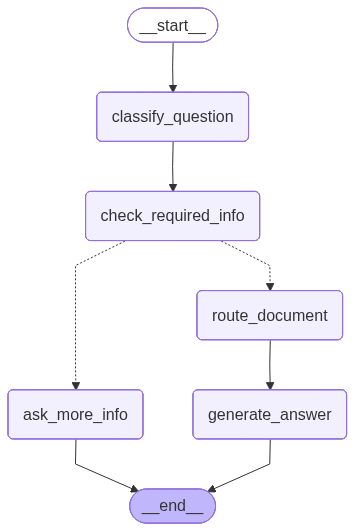
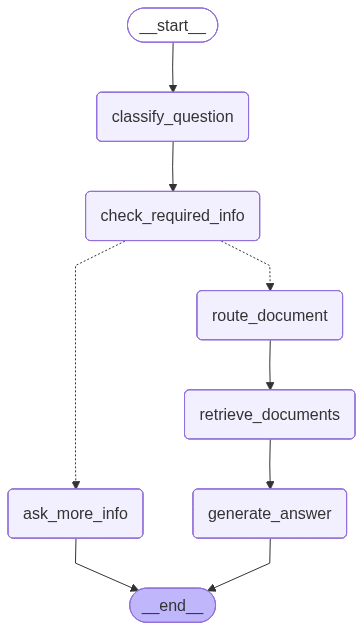
0512_working

Changed region(s): [[0.0, 0.0, 0.9915, 0.9944], [0.4958, 0.6629, 0.5268, 0.693]]

diff --git a/app/nodes/answer_node.py b/app/nodes/answer_node.py
@@ -1,13 +1,22 @@
+from dotenv import load_dotenv
+from langchain_openai import ChatOpenAI
+
+
 def generate_answer(state: dict) -> dict:
     """
-    현재까지 정리된 정보를 바탕으로 임시 답변을 생성하는 노드입니다.
-    아직 실제 RAG 검색은 연결하지 않았습니다.
+    RAG 검색 결과를 LLM에게 전달해
+    사용자에게 자연스러운 답변을 생성하는 노드입니다.
     """
 
+    load_dotenv()
+
+    question = state["question"]
     question_type = state["question_type"]
     missing_info = state["missing_info"]
     need_more_info = state["need_more_info"]
-    selected_docs = state["selected_docs"]
+    selected_docs = state.get("selected_docs", [])
+    retrieved_context = state.get("retrieved_context", "")
+    retrieved_sources = state.get("retrieved_sources", [])
 
     if question_type == "general":
         answer = (
@@ -15,20 +24,74 @@ def generate_answer(state: dict) -> dict:
             "청년월세지원 또는 전세사기 예방과 관련된 질문을 입력해주세요."
         )
 
-    elif need_more_info:
+        return {
+            "answer": answer
+        }
+
+    if need_more_info:
         answer = (
             "현재 질문만으로는 정확한 안내가 어렵습니다.\n"
-            f"추가로 확인이 필요한 정보: {', '.join(missing_info)}\n"
-            f"참고 예정 문서: {', '.join(selected_docs)}"
+            f"추가로 확인이 필요한 정보: {', '.join(missing_info)}"
         )
 
-    else:
+        return {
+            "answer": answer
+        }
+
+    if not retrieved_context:
         answer = (
             f"질문 유형: {question_type}\n"
             f"선택된 문서: {', '.join(selected_docs)}\n"
-            "해당 문서를 기반으로 답변을 생성할 수 있습니다."
+            "선택된 문서에서 관련 내용을 찾지 못했습니다."
         )
 
+        return {
+            "answer": answer
+        }
+
+    llm = ChatOpenAI(
+        model="gpt-4o-mini",
+        temperature=0
+    )
+
+    prompt = f"""
+당신은 청년 주거지원과 전세계약 안전 정보를 안내하는 AI 상담 도우미입니다.
+
+아래 사용자 질문에 대해 [검색된 문서 근거]만 참고해서 답변하세요.
+문서에 없는 내용은 추측하지 말고 "문서에서 확인되지 않습니다"라고 말하세요.
+단, 문서에 지원대상, 신청조건, 제출서류, 전세계약 확인사항이 포함되어 있다면 그 내용을 쉽게 요약하세요.
+
+주의사항:
+- 검색 출처에 없는 URL을 임의로 만들지 마세요.
+- 사용자의 최종 가능 여부를 단정하지 말고, 확인 가능한 조건과 추가 확인이 필요한 조건을 나누어 설명하세요.
+- 참고 출처는 Python 리스트 형태로 쓰지 말고, 줄바꿈 목록으로 정리하세요.
+
+답변 형식:
+
+1. 간단한 답변
+2. 문서에서 확인한 기준
+3. 추가로 확인할 점
+4. 참고 출처
+- 파일명 / 페이지 형식으로 줄바꿈 목록 작성
+
+[사용자 질문]
+{question}
+
+[질문 유형]
+{question_type}
+
+[선택된 문서]
+{selected_docs}
+
+[검색된 문서 근거]
+{retrieved_context}
+
+[검색 출처]
+{retrieved_sources}
+"""
+
+    response = llm.invoke(prompt)
+
     return {
-        "answer": answer
+        "answer": response.content
     }

diff --git a/app/nodes/retrieve_node.py b/app/nodes/retrieve_node.py
@@ -1,0 +1,85 @@
+from app.rag.vector_store import load_vector_store
+
+
+def make_search_query(state: dict) -> str:
+    """
+    사용자 질문을 그대로 검색하지 않고,
+    질문 유형에 맞게 검색 키워드를 보강합니다.
+    """
+
+    question = state["question"]
+    question_type = state.get("question_type")
+
+    if question_type == "housing_support":
+        return (
+            f"{question} "
+            "청년월세지원 지원대상 신청대상 신청일 기준 서울시 월세 거주 "
+            "19세 39세 이하 청년 소득 기준 신청 자격 제출서류"
+        )
+
+    if question_type == "rental_fraud":
+        return (
+            f"{question} "
+            "전세계약 전 확인사항 등기부등본 근저당 보증금 집주인 임대인 확인 "
+            "전세사기 예방 체크리스트 깡통주택 전세가율"
+        )
+
+    return question
+
+
+def retrieve_documents(state: dict) -> dict:
+    """
+    선택된 PDF 문서 안에서 사용자 질문과 관련된 chunk를 검색하는 노드입니다.
+    """
+
+    selected_docs = state.get("selected_docs", [])
+
+    if not selected_docs:
+        return {
+            "retrieved_context": "",
+            "retrieved_sources": []
+        }
+
+    search_query = make_search_query(state)
+
+    vector_store = load_vector_store()
+
+    try:
+        results = vector_store.similarity_search(
+            search_query,
+            k=5,
+            filter={
+                "source_file": {
+                    "$in": selected_docs
+                }
+            }
+        )
+
+    except Exception:
+        all_results = vector_store.similarity_search(search_query, k=10)
+
+        results = [
+            doc for doc in all_results
+            if doc.metadata.get("source_file") in selected_docs
+        ][:5]
+
+    context_list = []
+    source_list = []
+
+    for doc in results:
+        source_file = doc.metadata.get("source_file", "unknown")
+        page = doc.metadata.get("page", 0) + 1
+
+        source_text = f"{source_file} / {page}페이지"
+        source_list.append(source_text)
+
+        context_list.append(
+            f"[출처: {source_text}]\n{doc.page_content}"
+        )
+
+    retrieved_context = "\n\n".join(context_list)
+
+    return {
+        "retrieved_context": retrieved_context,
+        "retrieved_sources": source_list
+    }

diff --git a/app/graph/youth_graph.py b/app/graph/youth_graph.py
@@ -5,6 +5,7 @@ from langgraph.graph import StateGraph, START, END
 from app.nodes.classify_node import classify_question
 from app.nodes.info_check_node import check_required_info
 from app.nodes.route_node import route_document
+from app.nodes.retrieve_node import retrieve_documents
 from app.nodes.answer_node import generate_answer
 from app.nodes.ask_more_info_node import ask_more_info
 
@@ -15,6 +16,8 @@ class YouthState(TypedDict):
     missing_info: List[str]
     need_more_info: bool
     selected_docs: List[str]
+    retrieved_context: str
+    retrieved_sources: List[str]
     answer: str
 
 
@@ -36,6 +39,7 @@ def build_graph():
     graph_builder.add_node("check_required_info", check_required_info)
     graph_builder.add_node("ask_more_info", ask_more_info)
     graph_builder.add_node("route_document", route_document)
+    graph_builder.add_node("retrieve_documents", retrieve_documents)
     graph_builder.add_node("generate_answer", generate_answer)
 
     graph_builder.add_edge(START, "classify_question")
@@ -51,7 +55,8 @@ def build_graph():
     )
 
     graph_builder.add_edge("ask_more_info", END)
-    graph_builder.add_edge("route_document", "generate_answer")
+    graph_builder.add_edge("route_document", "retrieve_documents")
+    graph_builder.add_edge("retrieve_documents", "generate_answer")
     graph_builder.add_edge("generate_answer", END)
 
     graph = graph_builder.compile()

diff --git a/app/main.py b/app/main.py
@@ -4,8 +4,8 @@ from app.graph.youth_graph import build_graph
 def main():
     graph = build_graph()
 
-    #question = "서울 사는 27살인데 월세지원 받을 수 있어?"
-    question = "서울 사는 27살이고 소득 정보도 확인했는데 월세지원 받을 수 있어?"
+    #question = "서울 사는 27살이고 소득 정보도 확인했는데 월세지원 신청 대상은 누구야?"
+    question = "전세계약 전에 등기부등본이랑 근저당을 확인해야 해?"
 
     result = graph.invoke({
         "question": question
@@ -25,6 +25,12 @@ def main():
 
     print("\n선택된 문서:")
     print(result.get("selected_docs", []))
+
+    print("\n검색 출처:")
+    print(result.get("retrieved_sources", []))
+
+    print("\n검색된 문서 일부:")
+    print(result.get("retrieved_context", "")[:1000])
 
     print("\n최종 답변:")
     print(result.get("answer"))

diff --git a/app/nodes/info_check_node.py b/app/nodes/info_check_node.py
@@ -19,7 +19,7 @@ def check_required_info(state: dict) -> dict:
             missing_info.append("소득 정보")
 
     elif question_type == "rental_fraud":
-        if not any(word in question for word in ["근저당", "등기부", "보증금", "집주인"]):
+        if not any(word in question for word in ["근저당", "등기부", "보증금", "집주인", "임대인"]):
             missing_info.append("계약 위험 확인 정보")
 
     need_more_info = len(missing_info) > 0
@@ -28,4 +28,3 @@ def check_required_info(state: dict) -> dict:
         "missing_info": missing_info,
         "need_more_info": need_more_info
     }
-

diff --git a/visualize_graph.py b/visualize_graph.py
@@ -1,0 +1,16 @@
+from app.graph.youth_graph import build_graph
+
+
+def main():
+    graph = build_graph()
+
+    png_data = graph.get_graph().draw_mermaid_png()
+
+    with open("langgraph_flow.png", "wb") as f:
+        f.write(png_data)
+
+    print("그래프 이미지 저장 완료: langgraph_flow.png")
+
+
+if __name__ == "__main__":
+    main()

diff --git a/app/rag/vector_store.py b/app/rag/vector_store.py
@@ -7,7 +7,7 @@ from langchain_community.vectorstores import Chroma
 from app.rag.pdf_loader import load_and_split_pdfs
 
 
-VECTOR_DB_DIR = Path("data/vector_db")
+VECTOR_DB_DIR = Path("data/vector_db/youth_housing_agent")
 COLLECTION_NAME = "youth_housing_agent"
 
 

diff --git a/app/nodes/classify_node.py b/app/nodes/classify_node.py
@@ -17,4 +17,3 @@ def classify_question(state: dict) -> dict:
     return {
         "question_type": question_type
     }
-

diff --git a/app/nodes/route_node.py b/app/nodes/route_node.py
@@ -22,4 +22,3 @@ def route_document(state: dict) -> dict:
     return {
         "selected_docs": selected_docs
     }
-
